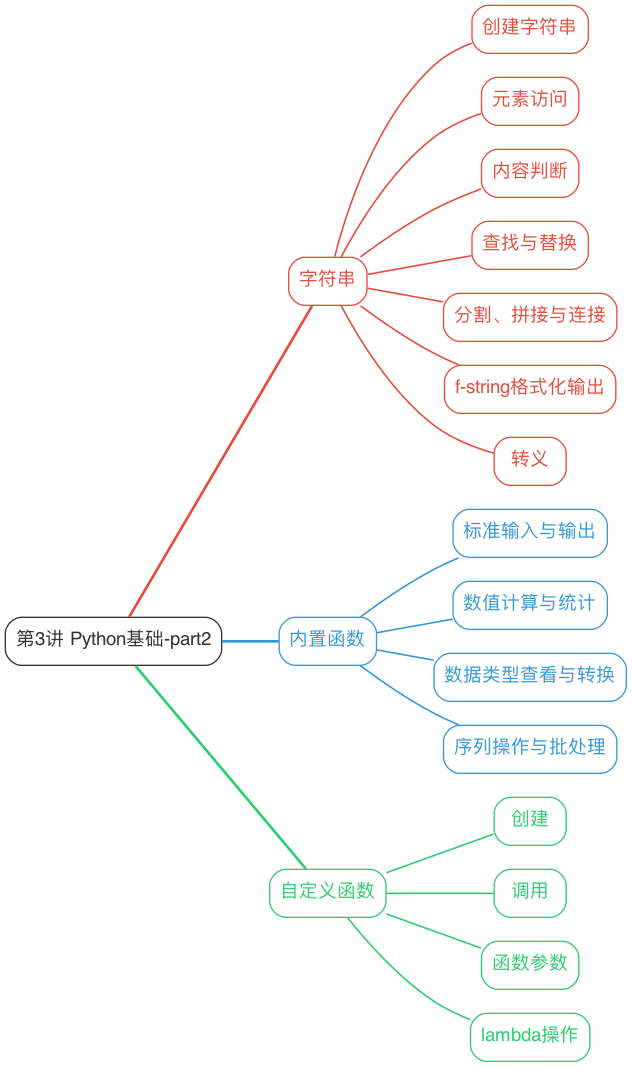
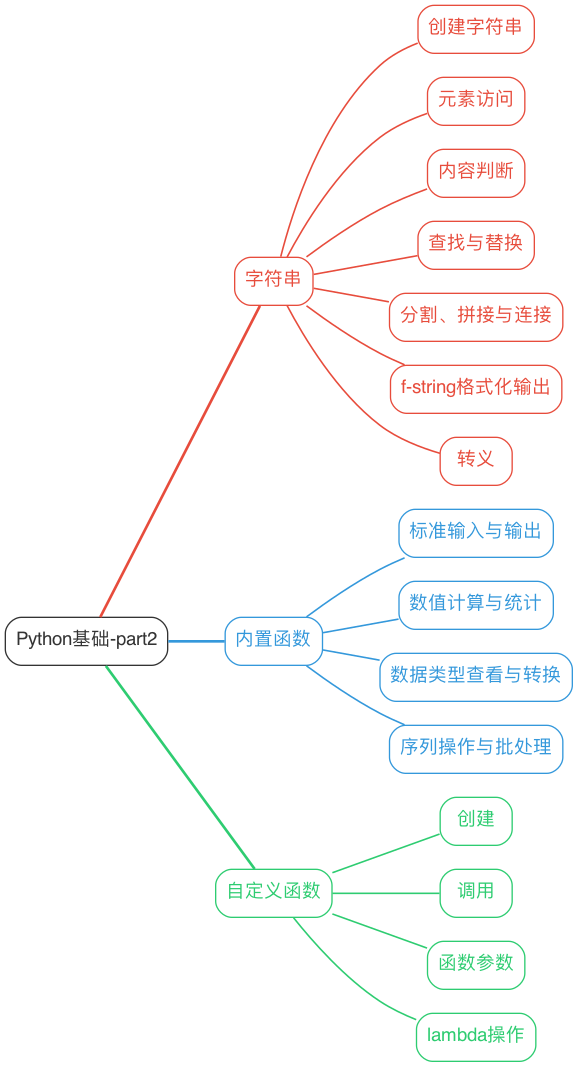
Add files via upload

diff --git a/mind-maps/ch2-part1.md b/mind-maps/ch2-part1.md
@@ -1,0 +1,14 @@
+# Python基础-part1
+## 程序基本元素
+### 对象
+### 基础数据类型
+
+## 基础语法
+### 变量声明
+### 表达式（逻辑单元）
+### 流程控制
+
+## 常用数据操作
+### 列表
+### 集合
+### 字典
